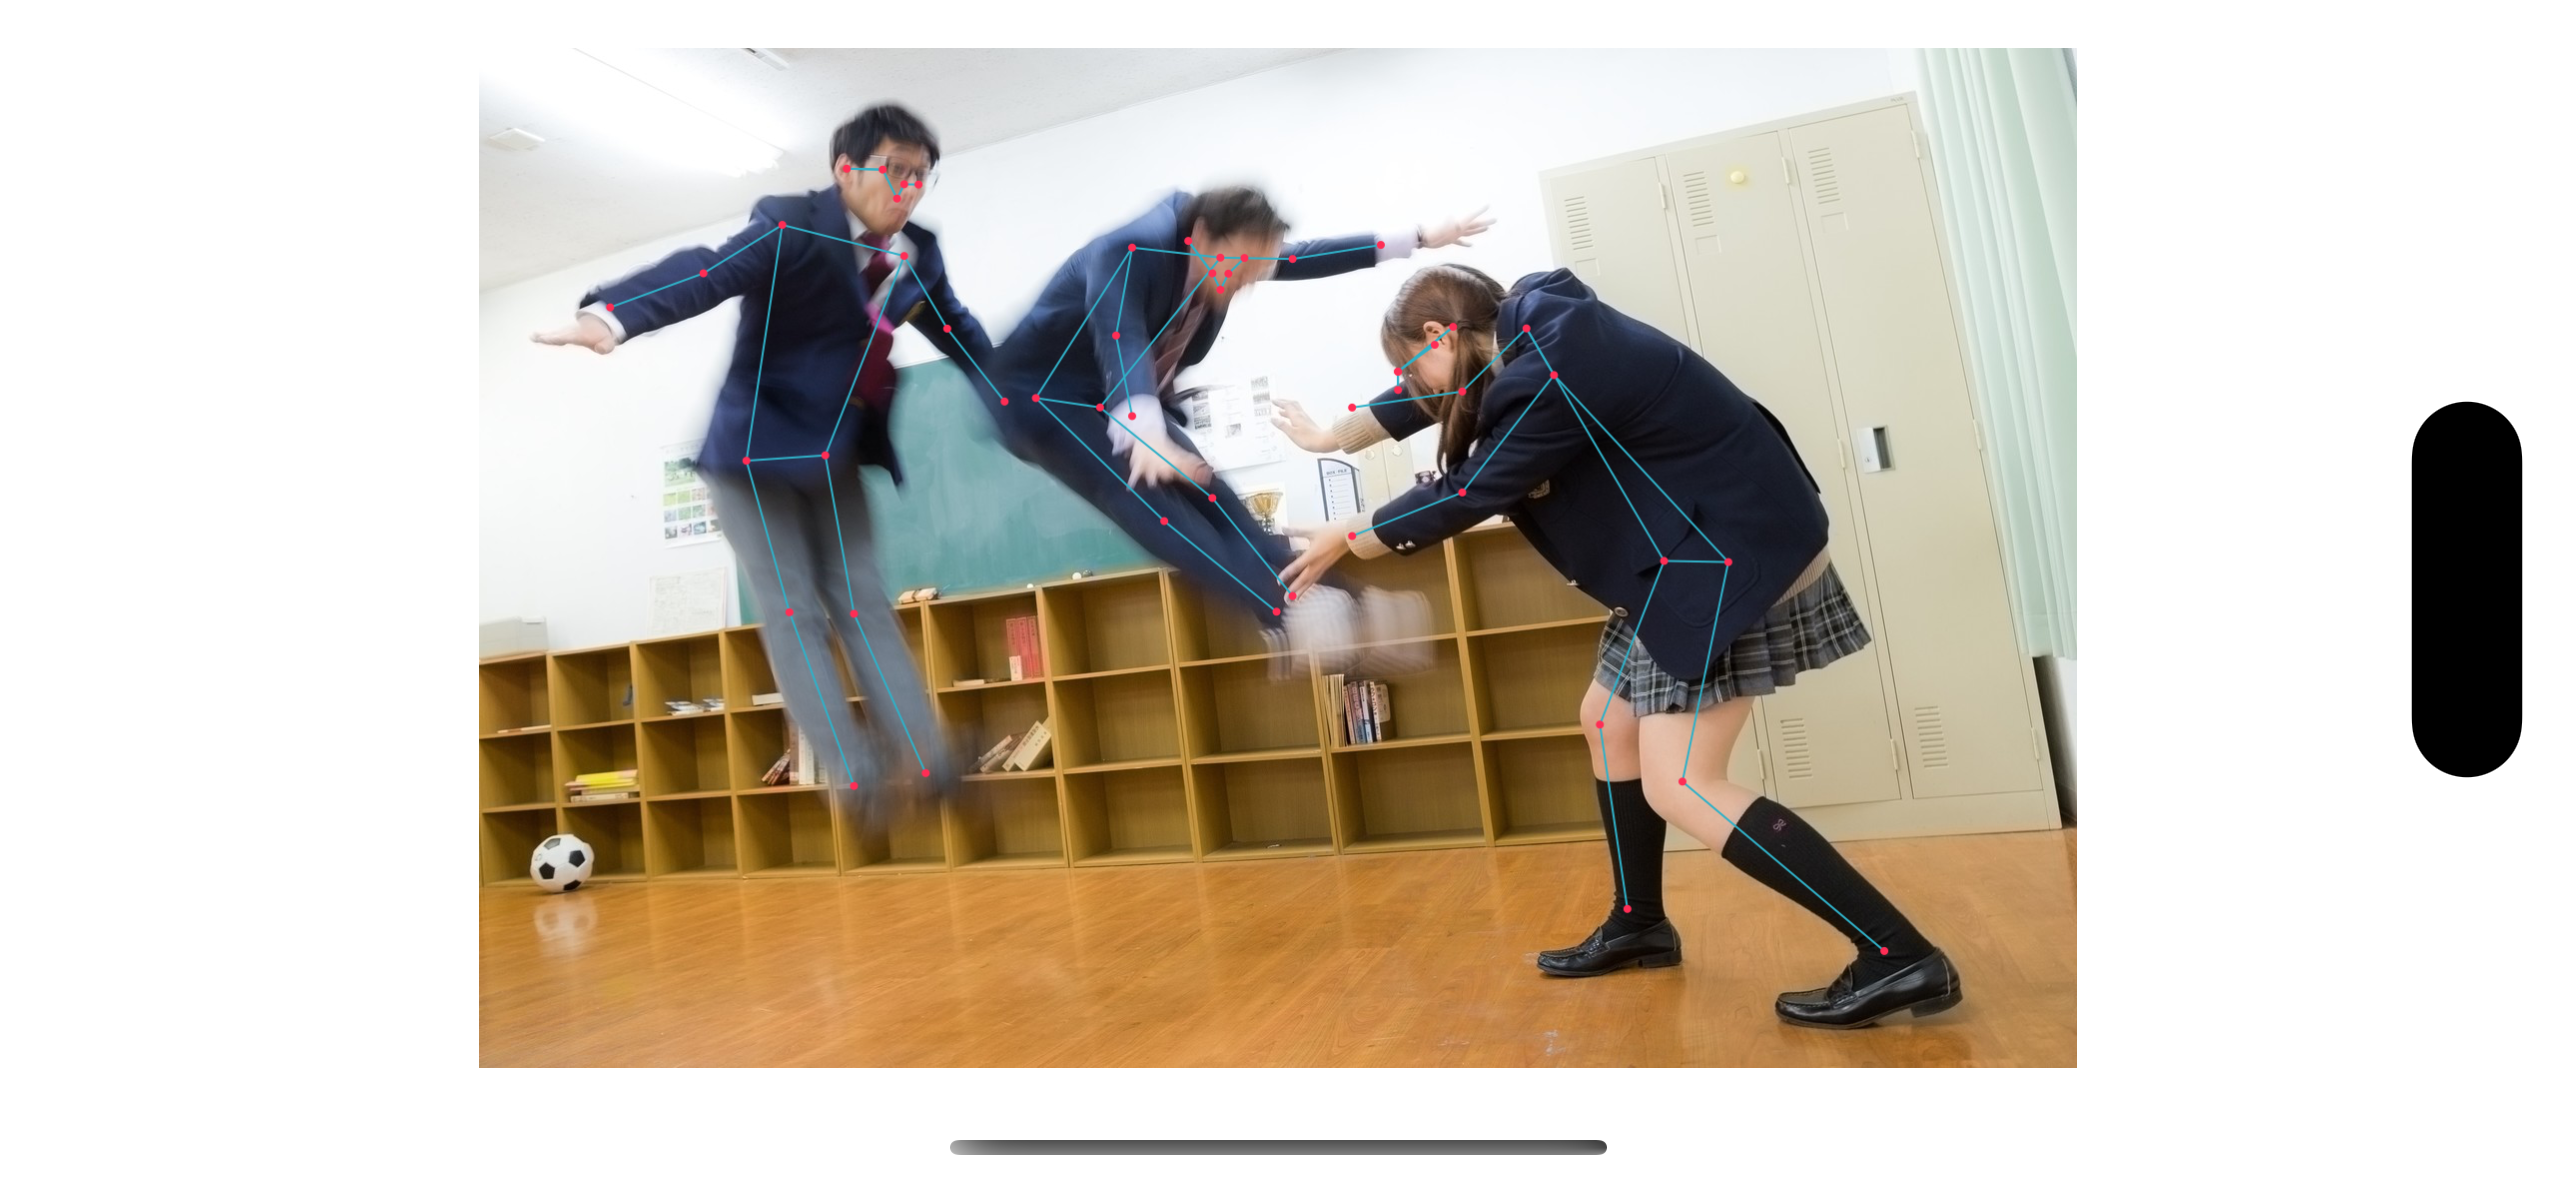
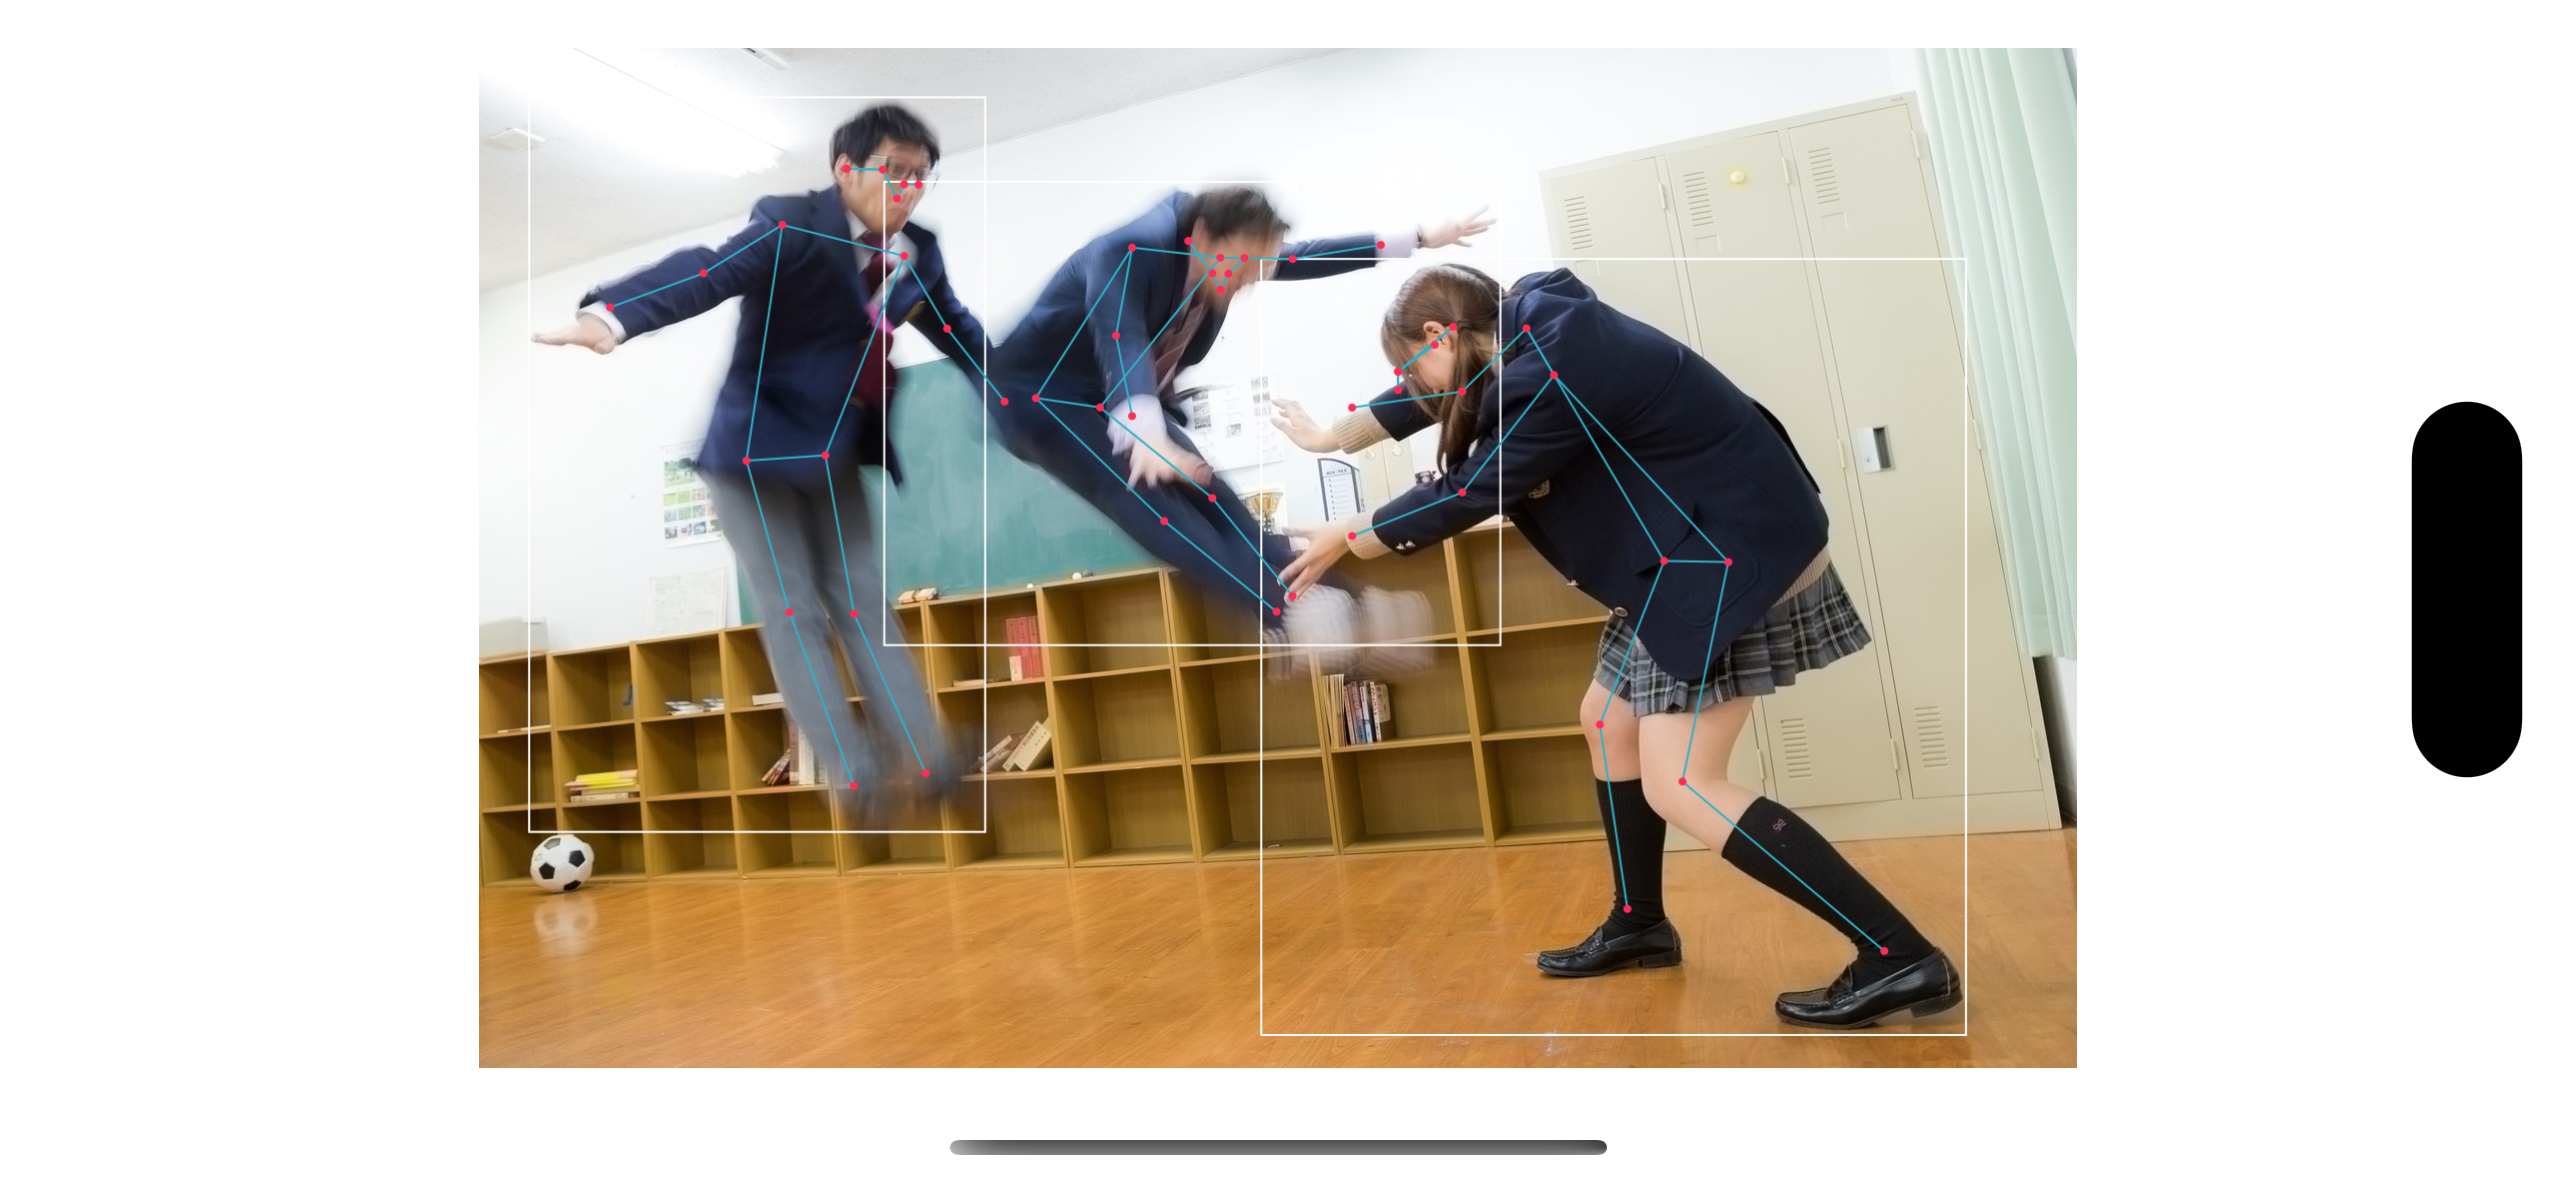
boundingbox draw fix

Changed region(s): [[0.34, 0.5191, 0.4945, 0.5496], [0.2164, 0.7023, 0.3709, 0.7328], [0.5563, 0.5191, 0.5872, 0.5496]]

diff --git a/TopDownPoseEstimation/PoseRender.swift b/TopDownPoseEstimation/PoseRender.swift
@@ -36,12 +36,14 @@ class PoseRender {
   ]
   
   var sourceImage: UIImage
+  var boxes: [Double]
   var poses = [HumanPose]()
   
   init(_ sourceImage: UIImage, keypoints: [Double], boxes: [Double], keypointsNumber: Int){
     self.sourceImage = sourceImage
-    let peopleNum = Int(boxes.count / 4)
-    for i in 0..<peopleNum {
+    self.boxes = boxes
+    let personNum = Int(boxes.count / 4)
+    for i in 0..<personNum {
       var pose = HumanPose(keypointsNumber: keypointsNumber)
       for j in 0..<keypointsNumber {
         let n = i * keypointsNumber * 3 + j * 3
@@ -63,6 +65,12 @@ class PoseRender {
                                            format: dstImageFormat)
     let dstImage = renderer.image { rendererContext in
       draw(image: sourceImage.cgImage!, in: rendererContext.cgContext)
+      
+      let personNum = Int(boxes.count / 4)
+      for num in 0..<personNum {
+        let box = CGRect(x: boxes[num*4], y: boxes[num*4+1], width: boxes[num*4+2], height: boxes[num*4+3])
+        draw(rect: box, in: rendererContext.cgContext)
+      }
       for pose in poses {
         for joint in joints {
           drawLine(from: pose.keypoints[joint.0],
@@ -94,6 +102,8 @@ class PoseRender {
   var segmentLineWidth: CGFloat = 2
   var jointColor: UIColor = UIColor.systemPink
   var jointRadius: CGFloat = 4
+  var boxColor: UIColor = UIColor.white
+  var boxLineWidth: CGFloat = 2
   
   func drawLine(from parentJoint: CGPoint,
                 to childJoint: CGPoint,
@@ -113,5 +123,12 @@ class PoseRender {
                            width: jointRadius * 2, height: jointRadius * 2)
     cgContext.addEllipse(in: rectangle)
     cgContext.drawPath(using: .fill)
+  }
+  
+  private func draw(rect box: CGRect, in cgContext: CGContext) {
+    cgContext.setStrokeColor(boxColor.cgColor)
+    cgContext.setLineWidth(boxLineWidth)
+    cgContext.addRect(box)
+    cgContext.drawPath(using: .stroke)
   }
 }

diff --git a/TopDownPoseEstimation/PoseEstimation.swift b/TopDownPoseEstimation/PoseEstimation.swift
@@ -37,8 +37,8 @@ class PoseEstimation: ObservableObject {
   
   func run(sourceImage: UIImage, boxes: [Double]) -> UIImage? {
     keypoints = [Double]()
-    let peopleNum = boxes.count / 4
-    for num in 0..<peopleNum {
+    let personNum = boxes.count / 4
+    for num in 0..<personNum {
       box = CGRect(x: boxes[num*4], y: boxes[num*4+1], width: boxes[num*4+2], height: boxes[num*4+3])
       let uiImage = keypointProcess.preExecute(image: sourceImage, box: box)
       if let uiImage = uiImage {
